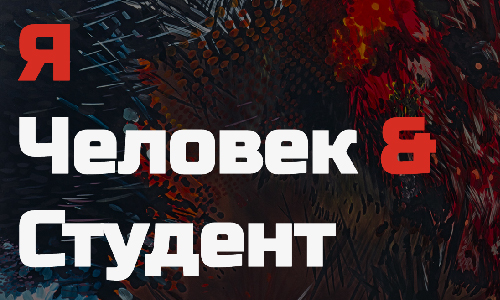
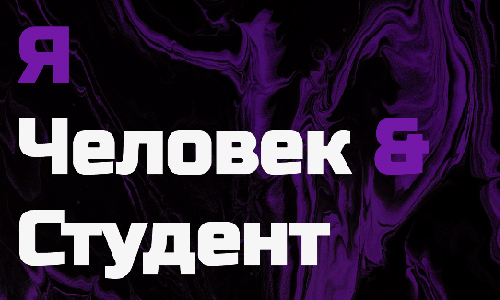
Я ЗАПРЕЩАЮ ТЕБЕ ЧТО ТО ТЕПЕРЬ ТУТ МЕНЯТЬ

diff --git a/css/styles.css b/css/styles.css
@@ -9,7 +9,7 @@
 }
 
 span{
-    color: #d62d22;
+    color: #7318a7;
     z-index: 1;
 }
 
@@ -32,9 +32,9 @@ body{
 }
 
 .easter-egg-popup-container{
-    background-color: #292a34;
-    border-bottom: #d62d22 0.5rem solid;
-    border-right: #d62d22 0.5rem solid;
+    background-color: #070407;
+    border-bottom: #7318a7 0.5rem solid;
+    border-right: #7318a7 0.5rem solid;
     width: 60%;
     padding: 2%;
     position: relative;
@@ -47,7 +47,7 @@ body{
 
 .easter-egg-popup-h3{
     font-size: 60px;
-    color: #d62d22;
+    color: #7318a7;
 }
 
 .easter-egg-popup-p{
@@ -55,7 +55,7 @@ body{
 }
 
 .easter-egg-popup-btn{
-    background-color: #d62d22;
+    background-color: #7318a7;
     color: #f6f6f6;
     width: 500px;
     height: 140px;
@@ -126,8 +126,7 @@ body{
 .background-image::before{
     content: '';
     opacity: 0.5;
-    background-image: url("https://www.nationalgalleries.org/sites/default/files/2014AA78963-dm_0.jpg");
-    background-repeat: no-repeat;
+    background-image: url("https://www.hdwallpapers.in/download/dark_purple_black_paint_liquid_stains_4k_hd_abstract-2560x1440.jpg");
     background-size: cover;
     background-attachment: fixed;
     background-position: center;
@@ -136,6 +135,8 @@ body{
     left: 0px;
     right: 0px;
     bottom: 0px;
+    height: 100%;
+    width: 100%;
 }
 
 .nav-container{
@@ -190,7 +191,7 @@ body{
 
 .home-h2{
     color: #f6f6f6;
-    text-shadow: #d62d22 20px;
+    text-shadow: #7318a7 20px;
     font-weight: 700;
     font-size: 170px;
 }
@@ -241,12 +242,12 @@ body{
     font-family: 'Caveat';
     text-align: center;
     font-size: 125px;
-    color: #d62d22;
+    color: #7318a7;
 }
 
 #about{
     padding-top: 6%;
-    background-color: #292a34;
+    background-color: #070407;
 }
 
 .about-container{
@@ -264,14 +265,14 @@ body{
 }
 
 .about-greeting-h3{
-    color: #d62d22;
+    color: #7318a7;
     font-size: 60px;
 }
 
 .about-greeting-h6{
     line-height: 0px;
     font-size: 20px;
-    color: #d62d22;
+    color: #7318a7;
 }
 
 .about-left-h4{
@@ -296,7 +297,7 @@ body{
 }
 
 #work-showcase{
-    background-color: #292a34;
+    background-color: #070407;
 }
 
 .work-title-h3{
@@ -307,7 +308,7 @@ body{
 }
 
 .work-title-h3-span{
-    color: #d62d22;
+    color: #7318a7;
     font-size: 60px;
 }
 
@@ -383,7 +384,7 @@ body{
 }
 
 #contact{
-    background-color: #292a34;
+    background-color: #070407;
 }
 
 .contact-container{
@@ -424,7 +425,7 @@ body{
 
 .contact-interested-h3-span{
     font-size: 60px;
-    color: #d62d22;
+    color: #7318a7;
 }
 
 .contact-interested-title-mobile{
@@ -769,7 +770,7 @@ body{
 
     .easter-egg-popup-h3{
         font-size: 30px;
-        color: #d62d22;
+        color: #7318a7;
     }
     
     .easter-egg-popup-p{
@@ -835,7 +836,7 @@ body{
     } 
 
     #about{
-        background-color: #292a34;
+        background-color: #070407;
         padding-bottom: 20%;
     }
 

diff --git a/index.html b/index.html
@@ -107,9 +107,9 @@
         <div class="contact-container">
             <div class="contact-title">
                 <h2 class="contact-h2" data-inviewport="fade-in">Контакт<br>Со мной</h2>
-                <h3 class="contact-interested-title-mobile" data-inviewport="slide-to-right">Я всегда заинтересован<span class="contact-interested-h3-span">✗</span></h3>
+                <h3 class="contact-interested-title-mobile" data-inviewport="fade-in">Я всегда заинтересован<span class="contact-interested-h3-span">✗</span></h3>
             </div>
-            <div class="contact-interested" data-inviewport="fade-in-bottom">
+            <div class="contact-interested" data-inviewport="fade-in">
                 <h3 class="contact-interested-title">Я всегда заинтересован<span class="work-title-h3-span">✗</span></h3>
                 <div class="contact-interested-pool-container">
                     <h3 class="contact-interested-h3">Вёрсткой</h3>
